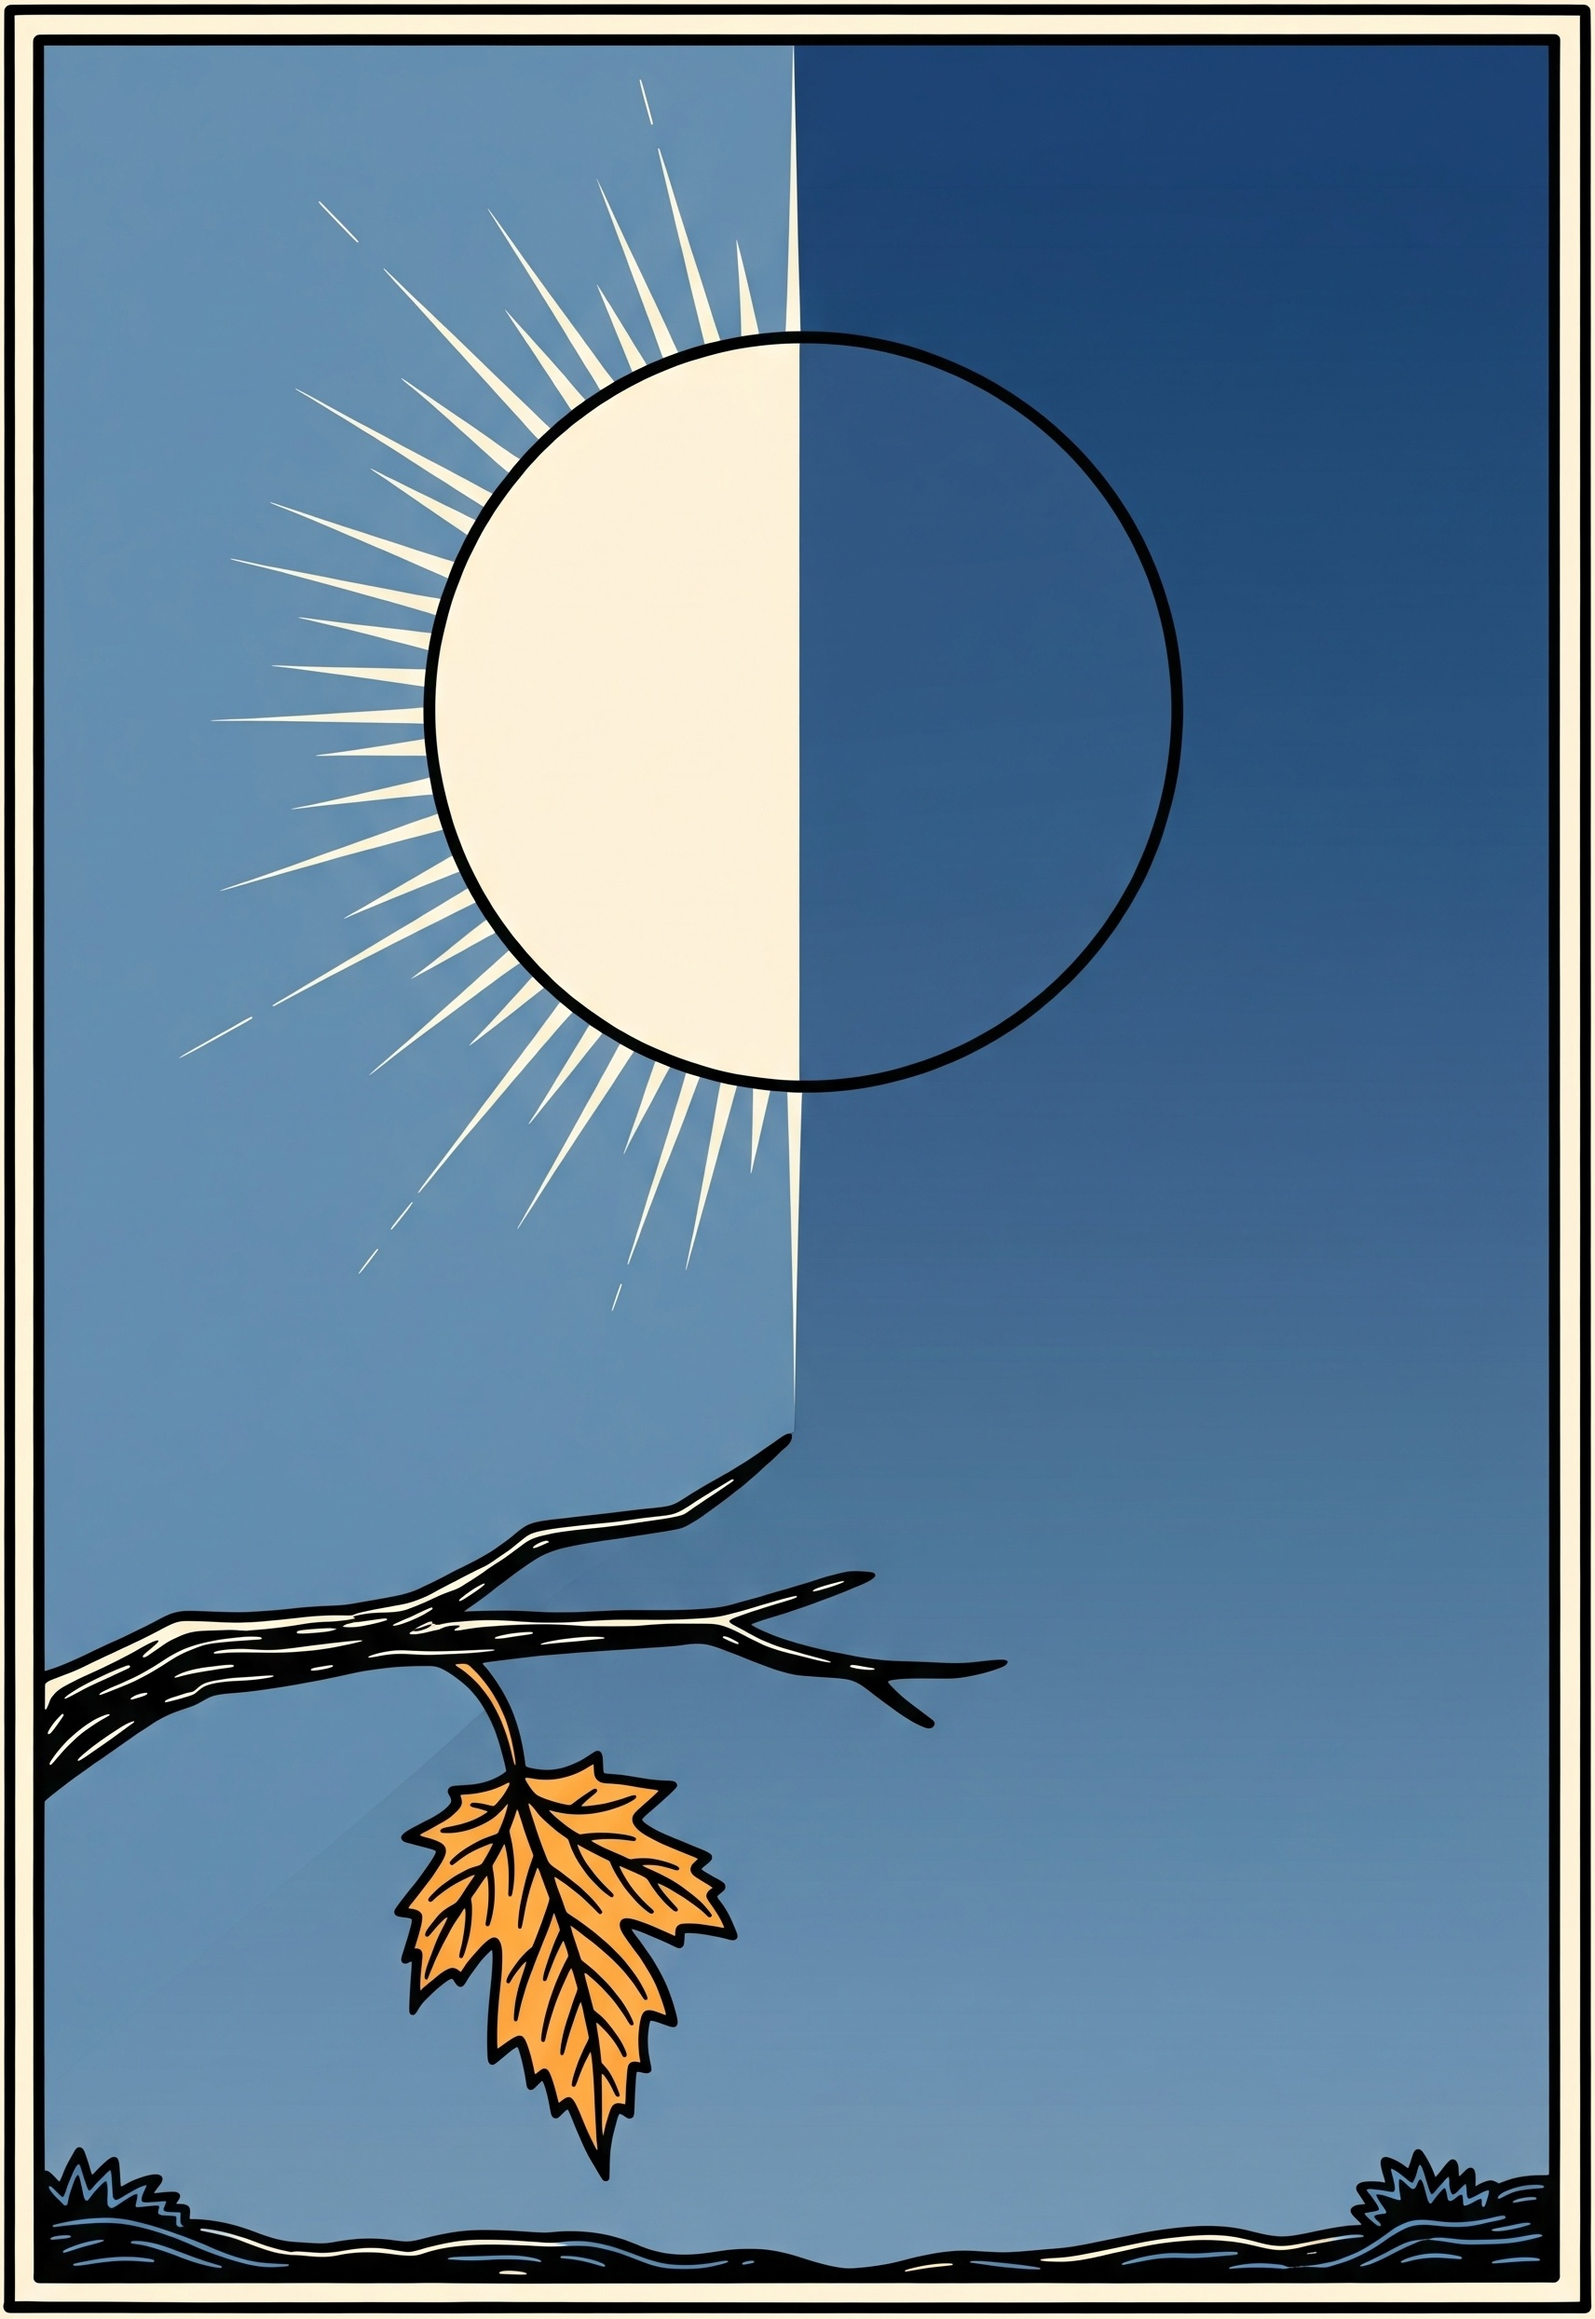
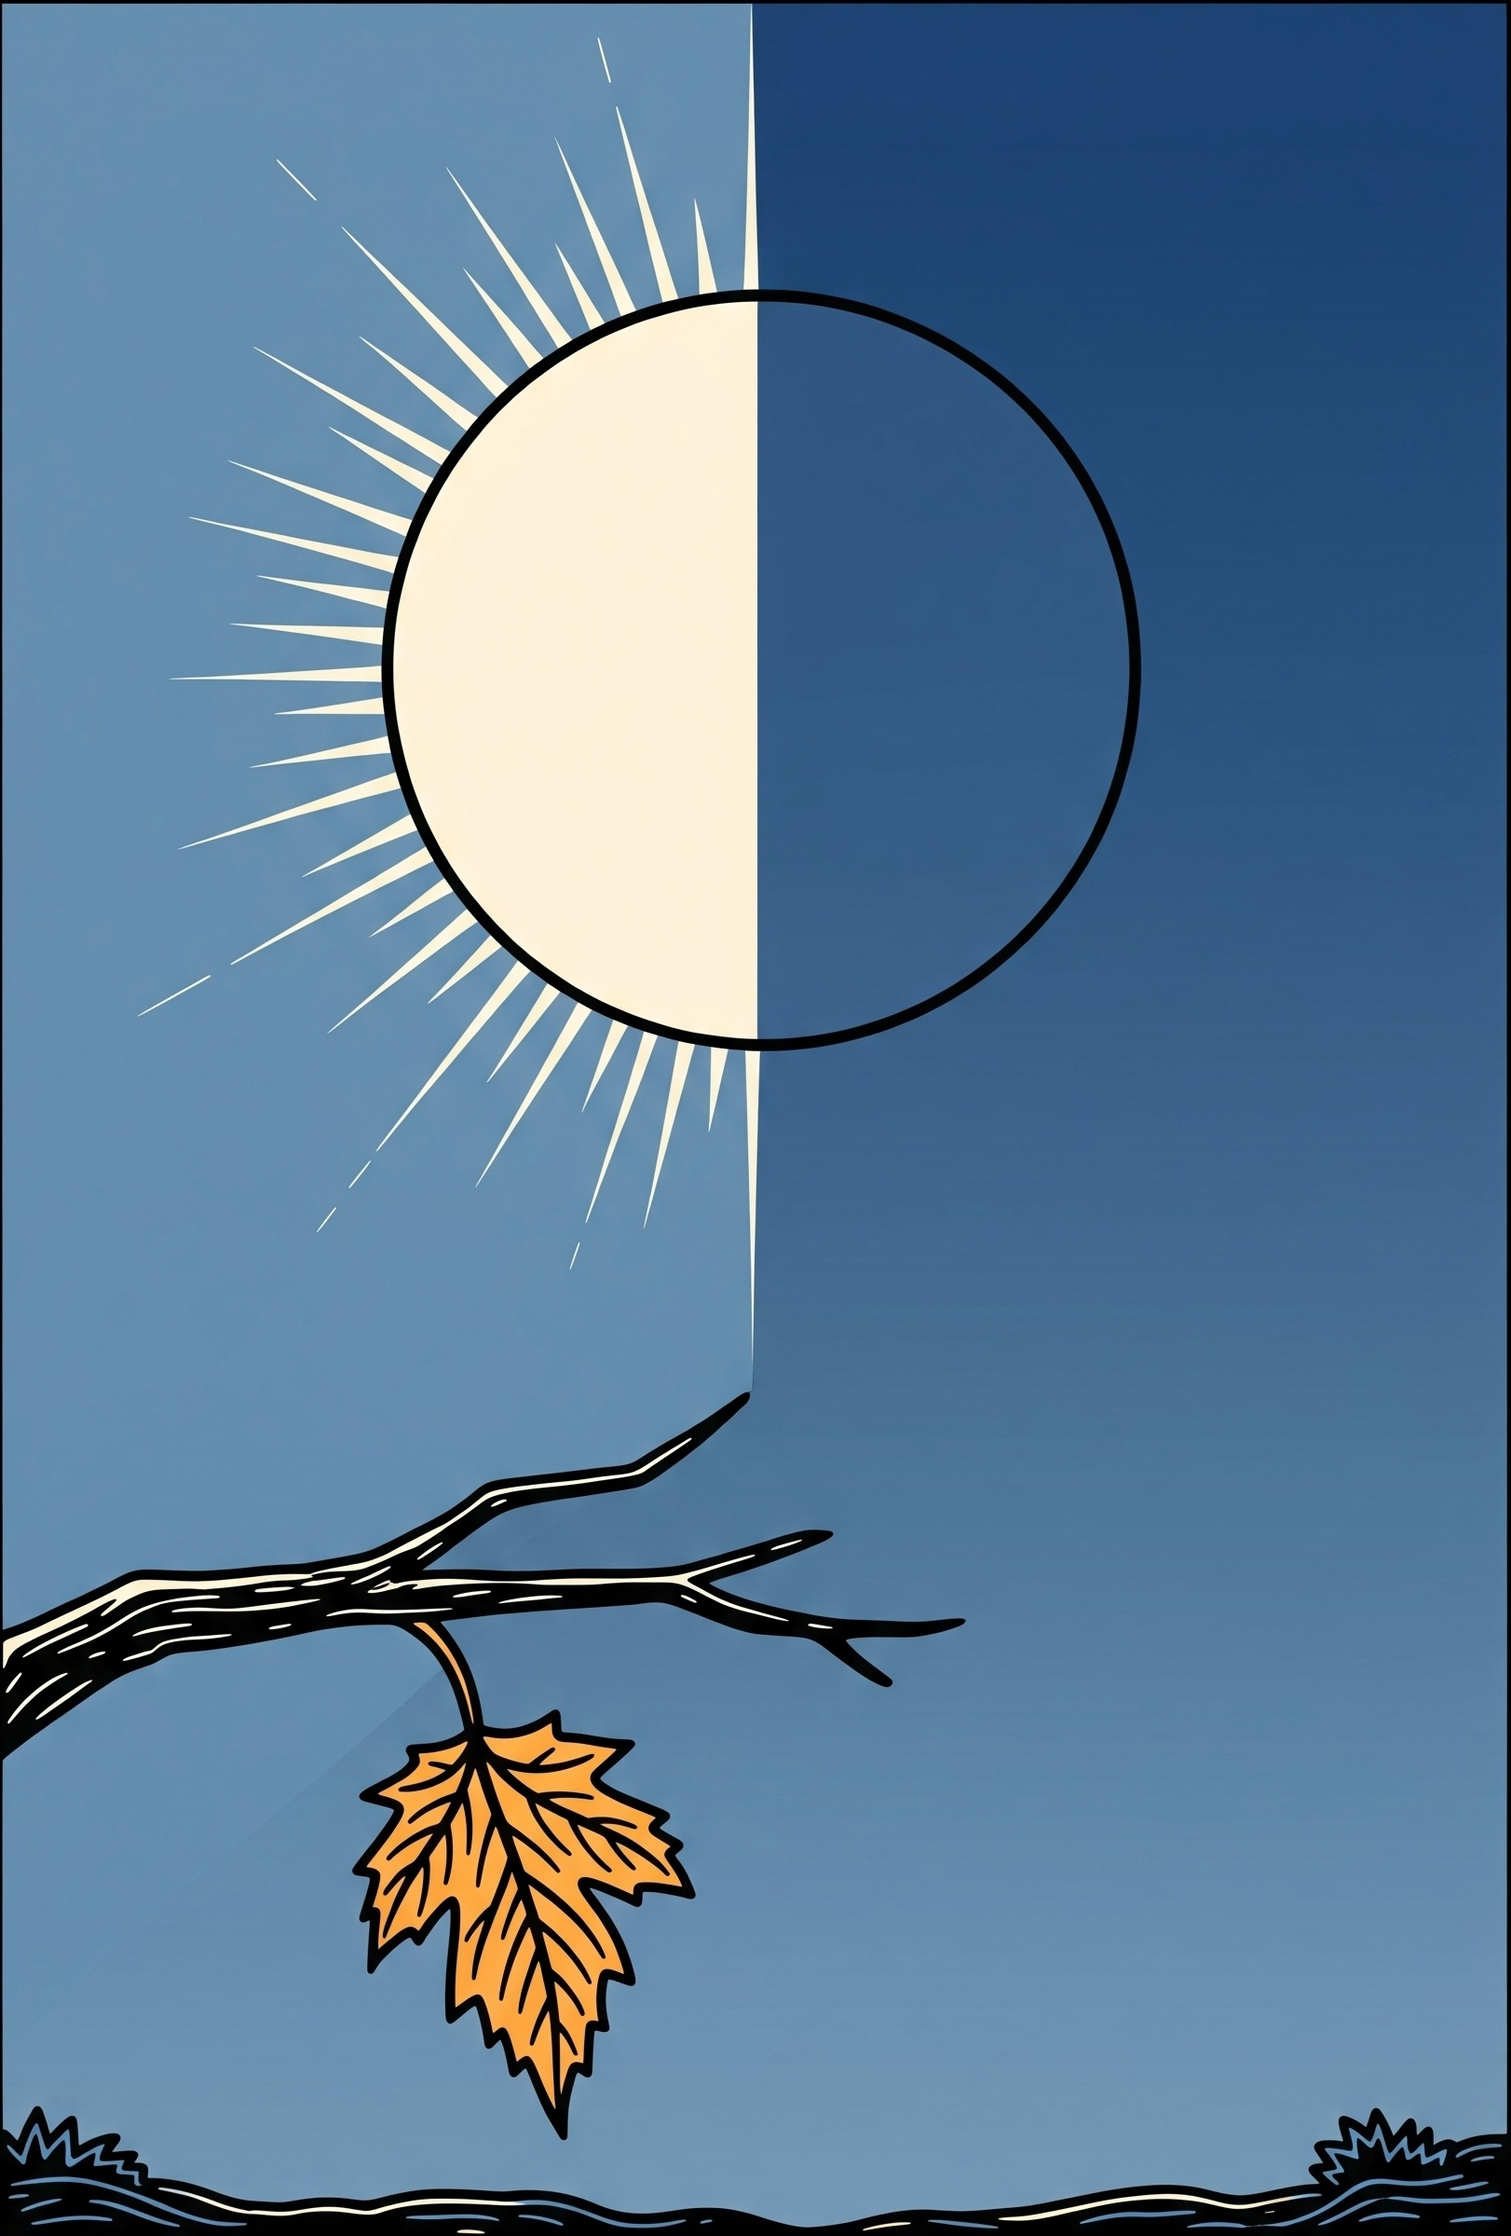
fix: 下弦の月と月影の枠を削除
- last-quarter.jpg: 45px枠を削除
- moon-shadow.jpg: 40px枠を削除
- すべてのタロットカード画像の余白を最適化完了

Changed region(s): [[0.0, 0.0, 1.0, 1.0], [0.1541, 0.0617, 0.7707, 0.5244], [0.2466, 0.4935, 0.2774, 0.5244]]

diff --git a/trim_final_cards.py b/trim_final_cards.py
@@ -1,0 +1,65 @@
+#!/usr/bin/env python3
+"""
+last-quarterとmoon-shadowの枠をトリミング
+"""
+
+from PIL import Image
+import os
+
+def trim_card_borders(image_path, trim_pixels):
+    """
+    画像の周囲から指定ピクセル分をトリミング
+    """
+    img = Image.open(image_path)
+    width, height = img.size
+    
+    filename = os.path.basename(image_path)
+    print(f"\n処理中: {filename}")
+    print(f"  元のサイズ: {img.size}")
+    
+    # 新しい境界を計算
+    left = trim_pixels
+    top = trim_pixels
+    right = width - trim_pixels
+    bottom = height - trim_pixels
+    
+    # トリミング
+    if left < right and top < bottom:
+        cropped = img.crop((left, top, right, bottom))
+        
+        # 保存
+        cropped.save(image_path, 'JPEG', quality=95)
+        
+        print(f"  新しいサイズ: {cropped.size}")
+        print(f"  削減: {trim_pixels}ピクセル（全辺）")
+        return True
+    else:
+        print(f"  画像が小さすぎてトリミングできません")
+        return False
+
+def main():
+    """
+    last-quarterとmoon-shadowをトリミング
+    """
+    base_dir = "/Users/shiraitouma/daniel/line-love-edu/public/images/tarot-cards"
+    
+    # 処理対象のファイルと各ファイルごとのトリミング量
+    target_files = {
+        "last-quarter.jpg": 45,    # 下弦の月 - 黒とベージュの二重枠を削除
+        "moon-shadow.jpg": 40,     # 月影 - 黒い枠を削除
+    }
+    
+    processed_count = 0
+    
+    for filename, trim_pixels in target_files.items():
+        file_path = os.path.join(base_dir, filename)
+        if os.path.exists(file_path):
+            if trim_card_borders(file_path, trim_pixels):
+                processed_count += 1
+        else:
+            print(f"ファイルが見つかりません: {filename}")
+    
+    print(f"\n完了！ {processed_count}個のファイルをトリミングしました。")
+
+if __name__ == "__main__":
+    main()
